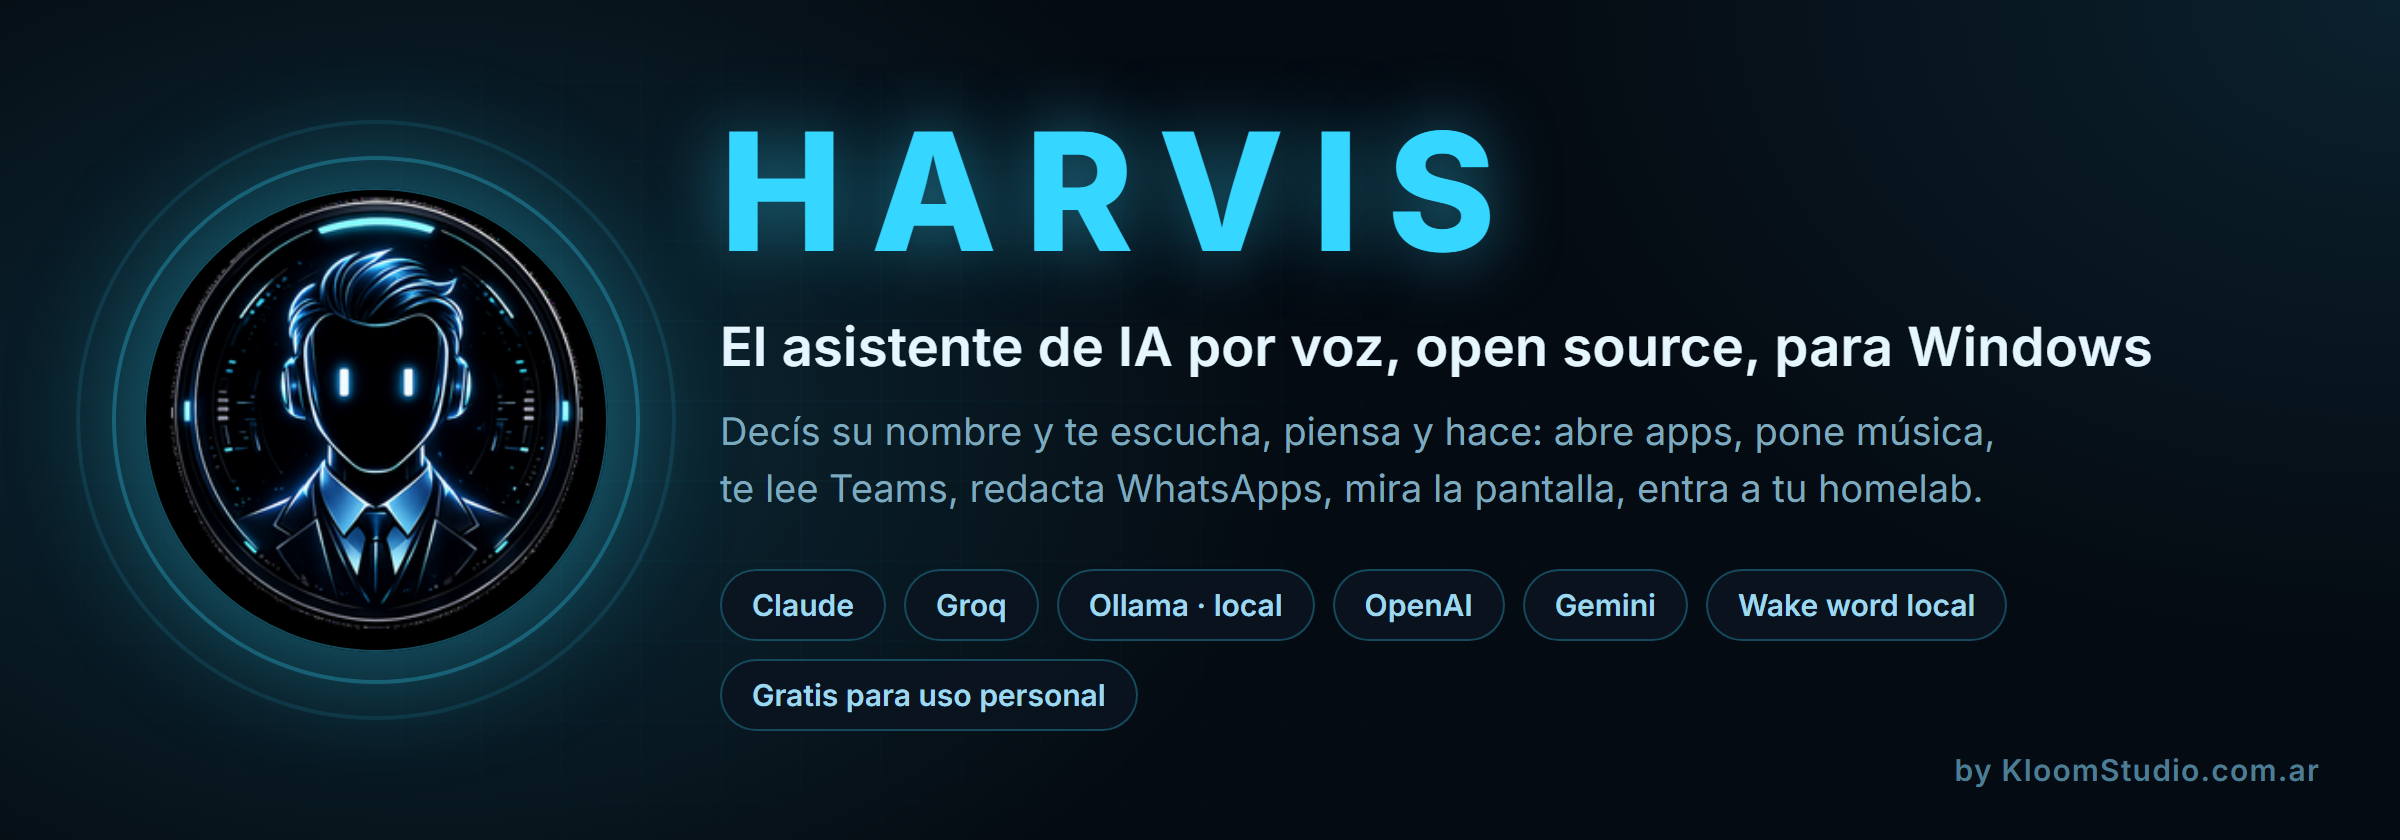
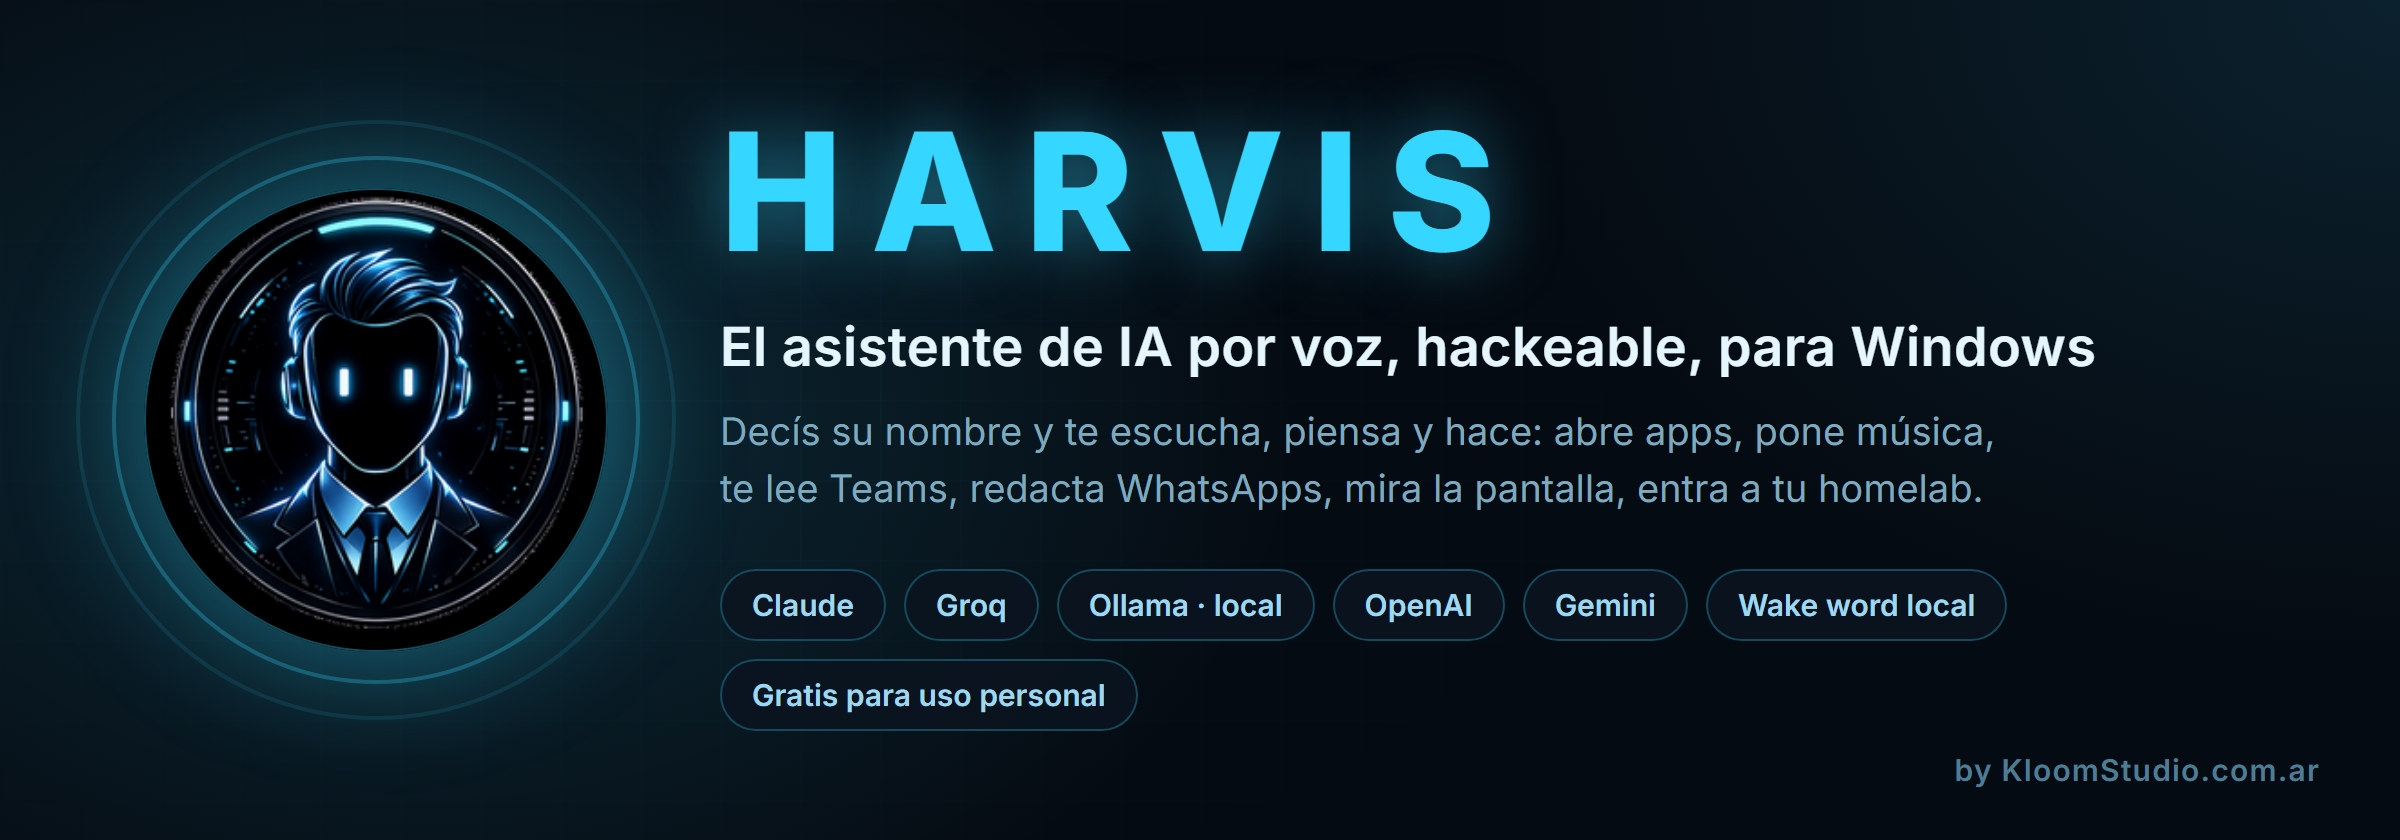
Call it hackable and source-available, not open source
PolyForm Noncommercial is not an OSI license; saying open source invites a
license argument instead of a conversation about the product.

Changed region(s): [[0.5938, 0.3714, 0.9062, 0.4643]]

diff --git a/README.md b/README.md
@@ -1,11 +1,11 @@
 <p align="center">
-  <img src="assets/hero.png" alt="HARVIS — the open-source voice AI assistant for Windows">
+  <img src="assets/hero.png" alt="HARVIS — the hackable voice AI assistant for Windows">
 </p>
 
 <p align="center">
   <b>Your Windows PC. Controlled by voice. Powered by the AI you choose.</b><br>
-  An open-source, hackable <b>voice AI assistant</b> for Windows — by
-  <a href="https://kloomstudio.com.ar">KloomStudio.com.ar</a>
+  A hackable <b>voice AI assistant</b> for Windows — full source, free for
+  personal use — by <a href="https://kloomstudio.com.ar">KloomStudio.com.ar</a>
 </p>
 
 <p align="center">
@@ -226,7 +226,9 @@ fork. PRs that make the built-in prompts multilingual are welcome.
 ## License — personal use, not for sale
 
 HARVIS is released under the
-[PolyForm Noncommercial 1.0.0](LICENSE) license.
+[PolyForm Noncommercial 1.0.0](LICENSE) license. The full source is here and
+you can do almost anything with it — but to be precise, that's a
+*source-available* license, not an OSI-approved open-source one.
 
 **You can** use it, modify it, fork it, publish your skills and share it with
 whoever you want, for personal projects.

diff --git a/README_ES.md b/README_ES.md
@@ -1,10 +1,11 @@
 <p align="center">
-  <img src="assets/hero-es.png" alt="HARVIS — el asistente de IA por voz, open source, para Windows">
+  <img src="assets/hero-es.png" alt="HARVIS — el asistente de IA por voz, hackeable, para Windows">
 </p>
 
 <p align="center">
   <b>Tu PC con Windows. Manejada por voz. Con la IA que vos elijas.</b><br>
-  Un <b>asistente de IA por voz</b> open source y hackeable para Windows — por
+  Un <b>asistente de IA por voz</b> hackeable para Windows — todo el código a la
+  vista, gratis para uso personal — por
   <a href="https://kloomstudio.com.ar">KloomStudio.com.ar</a>
 </p>
 
@@ -233,7 +234,9 @@ PRs que hagan multilingües los prompts internos son bienvenidos.
 ## Licencia — uso personal, no se vende
 
 HARVIS se publica bajo la licencia
-[PolyForm Noncommercial 1.0.0](LICENSE).
+[PolyForm Noncommercial 1.0.0](LICENSE). El código está entero acá y podés
+hacer casi cualquier cosa con él — pero para ser precisos es una licencia
+*source-available*, no una licencia open source aprobada por la OSI.
 
 **Podés** usarlo, modificarlo, forkearlo, publicar tus skills y compartirlo con
 quien quieras, para proyectos personales.
